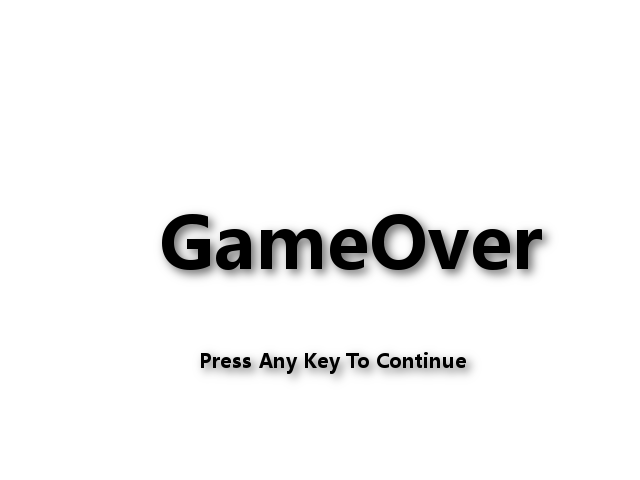
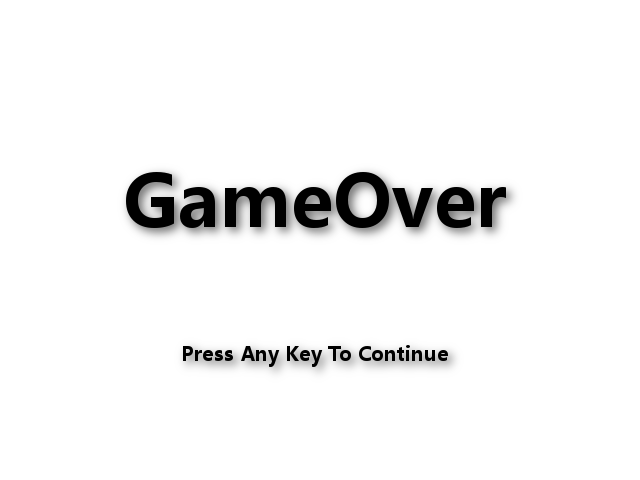
测试

Changed region(s): [[0.1875, 0.3438, 0.875, 0.5938], [0.2812, 0.7188, 0.75, 0.7812]]

diff --git a/example/tank/src/gamescreen.cpp b/example/tank/src/gamescreen.cpp
@@ -11,11 +11,12 @@ bool GameScreen::init()
 	
 	_tilemap.load("map.tmx");
 
+	_tank.setGroup(0);
 	_world.appendChild(&_tilemap);
 	_world.appendChild(&_tank);
 
-	_livedTanks = 20;
-	for(unsigned int i=0; i<_livedTanks; i++)
+	_livedTanks = 50;
+	for(int i=0; i<_livedTanks; i++)
 	{
 		Robot* robot = new Robot();
 		_robots.push_back(robot);
@@ -38,6 +39,7 @@ void GameScreen::begin()
 	for(unsigned int i=0; i<_robots.size(); i++)
 		_robots[i]->reset();
 
+	_tilemap.getObjectLayer()->clear();
 	_livedTanks = _robots.size();
 	_tank.setVisiable();
 	_tank.setActive();
@@ -54,13 +56,13 @@ void GameScreen::update(unsigned int dt)
 	if(!_tank.moving())
 	{
 		const Uint8* sta = SDL_GetKeyboardState(0);
-		if(sta[::SDL_SCANCODE_W])
+		if(sta[::SDL_SCANCODE_W] || sta[::SDL_SCANCODE_UP])
 			_tank.turnUp();
-		else if(sta[::SDL_SCANCODE_S])
+		else if(sta[::SDL_SCANCODE_S] || sta[SDL_SCANCODE_DOWN])
 			_tank.turnDown();
-		else if(sta[::SDL_SCANCODE_A])
+		else if(sta[::SDL_SCANCODE_A] || sta[SDL_SCANCODE_LEFT])
 			_tank.turnLeft();
-		else if(sta[::SDL_SCANCODE_D])
+		else if(sta[::SDL_SCANCODE_D] || sta[SDL_SCANCODE_RIGHT])
 			_tank.turnRight();
 	}
 }
@@ -110,7 +112,7 @@ void GameScreen::handleEvent(const SDL_Event& event)
 	}
 }
 
-bool GameScreen::tankBlowUp(int id, void* data, void* param)
+bool GameScreen::tankBlowUp(int , void* data, void* param)
 {
 	GameScreen* screen = (GameScreen*)data;
 	Tank* tank = (Tank*)param;

diff --git a/example/tank/src/startscreen.cpp b/example/tank/src/startscreen.cpp
@@ -3,7 +3,7 @@
 
 bool StartScreen::init()
 {
-	return _image.load("menu.png");
+	return _message.load("menu.png") && _image.load("bg.png");
 }
 
 void StartScreen::begin()
@@ -12,16 +12,17 @@ void StartScreen::begin()
 	_height = _image.height();
 }
 
-void StartScreen::update(unsigned int dt)
+void StartScreen::update(unsigned int )
 {
-	_uptime += dt;
 	if(_height > 0)
 		_height -= 2;
+	else
+		_height = 0;
 }
 
 void StartScreen::handleEvent(const SDL_Event& event)
 {
-	if(_uptime < 1000)
+	if(_height > 0)
 		return ;
 
 	if(event.type == SDL_KEYDOWN)
@@ -30,5 +31,6 @@ void StartScreen::handleEvent(const SDL_Event& event)
 
 void StartScreen::draw(SDL_Renderer* randerer)
 {
-	_image.draw(randerer, 0, _height);
+	_image.draw(randerer);
+	_message.draw(randerer, 0, _height);
 }

diff --git a/example/tank/src/gameoverscreen.h b/example/tank/src/gameoverscreen.h
@@ -15,13 +15,14 @@ public:
 
 private:
 	int _uptime;
-	Image _image;
+	Image _message;
+	Image _background;
 };
 
 
 inline bool GameOverScreen::init()
 {
-	return _image.load("gameover.png");
+	return _background.load("bg.png") && _message.load("gameover.png");
 }
 
 inline void GameOverScreen::begin()
@@ -36,7 +37,8 @@ inline void GameOverScreen::update(unsigned int dt)
 
 inline void GameOverScreen::draw(SDL_Renderer* randerer)
 {
-	_image.draw(randerer);
+	_background.draw(randerer);
+	_message.draw(randerer);
 }
 
 inline void GameOverScreen::handleEvent(const SDL_Event& event)
@@ -47,6 +49,5 @@ inline void GameOverScreen::handleEvent(const SDL_Event& event)
 	if(event.type == SDL_KEYDOWN)
 		Director::getDirector()->changeScreen("Menu");
 }
-
 
 #endif

diff --git a/src/tilemap/objectlayer.h b/src/tilemap/objectlayer.h
@@ -12,6 +12,7 @@ public:
 	void  resize(int size);
 	void  setObject(int position, void* obj);
 	void* getObject(int position);
+	void  clear();
 
 private:
 	std::vector<void *> _objects;
@@ -35,8 +36,16 @@ inline void ObjectLayer::setObject(int position, void* obj)
 
 inline void* ObjectLayer::getObject(int position)
 {
+	if(position < 0)
+		printf("ObjectLayer::getObject error -> position < 0\n");
+
 	return _objects[position];
 }
 
+inline void ObjectLayer::clear()
+{
+	for(unsigned int i=0; i<_objects.size(); i++)
+		_objects[i] = 0;
+}
 
 #endif

diff --git a/example/tank/src/tank.cpp b/example/tank/src/tank.cpp
@@ -74,7 +74,12 @@ bool Tank::init()
 	_step  = 2;
 	_uptime = 0;
 	_direction = DIR_UP;
-	_image.load("tank.png");
+
+	if(_group == 0)
+		_image.load("tank_red.png");
+	else
+		_image.load("tank.png");
+
 	return Object::init();
 }
 

diff --git a/src/image.h b/src/image.h
@@ -70,7 +70,7 @@ inline bool Image::load(const char* file)
 	_surface = IMG_Load(file);
 	if(_surface == 0)
 	{
-		printf("Image::load -> %s\n", file);
+		printf("Image::load filled -> %s\n", file);
 		return false;
 	}
 

diff --git a/example/tank/src/robot.h b/example/tank/src/robot.h
@@ -46,7 +46,6 @@ inline void Robot::reset()
 {
 	_uptime = rand()%8000+1000;
 	_tank.setPosition(rand()%25 * 16, rand()%25 * 16);
-	_tank.blowUp();
 	_tank.setActive(true);
 	_tank.setVisiable(true);
 }

diff --git a/src/event/eventhandler.h b/src/event/eventhandler.h
@@ -22,7 +22,7 @@ private:
 		EventWatcher watcher;
 	};
 
-	std::vector<std::vector<Event>> _eventWathers;
+	std::vector< std::vector<Event> > _eventWathers;
 };
 
 inline EventHandler::EventHandler()

diff --git a/example/tank/src/startscreen.h b/example/tank/src/startscreen.h
@@ -17,6 +17,7 @@ private:
 	int _height;
 	int _uptime;
 	Image _image;
+	Image _message;
 };
 
 
